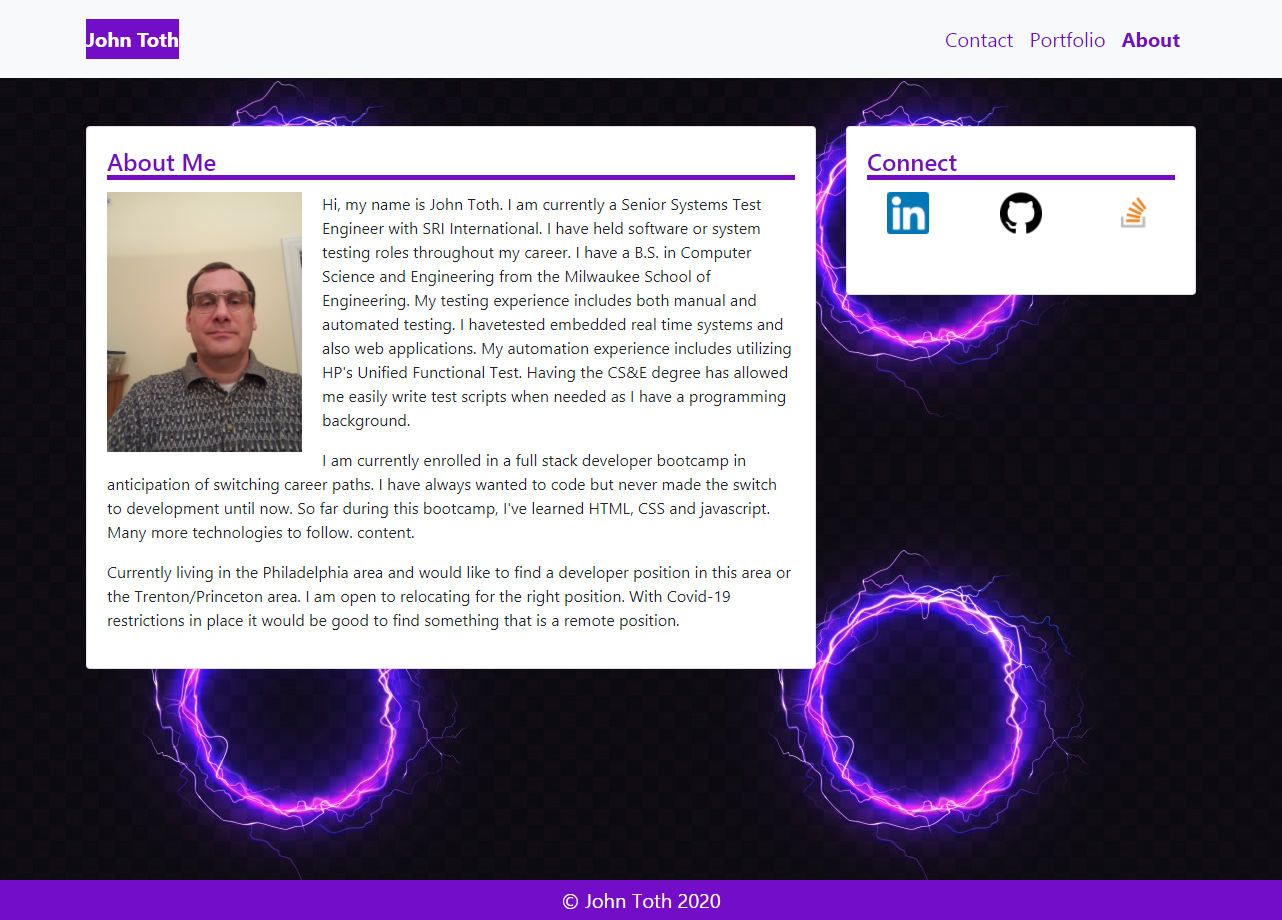
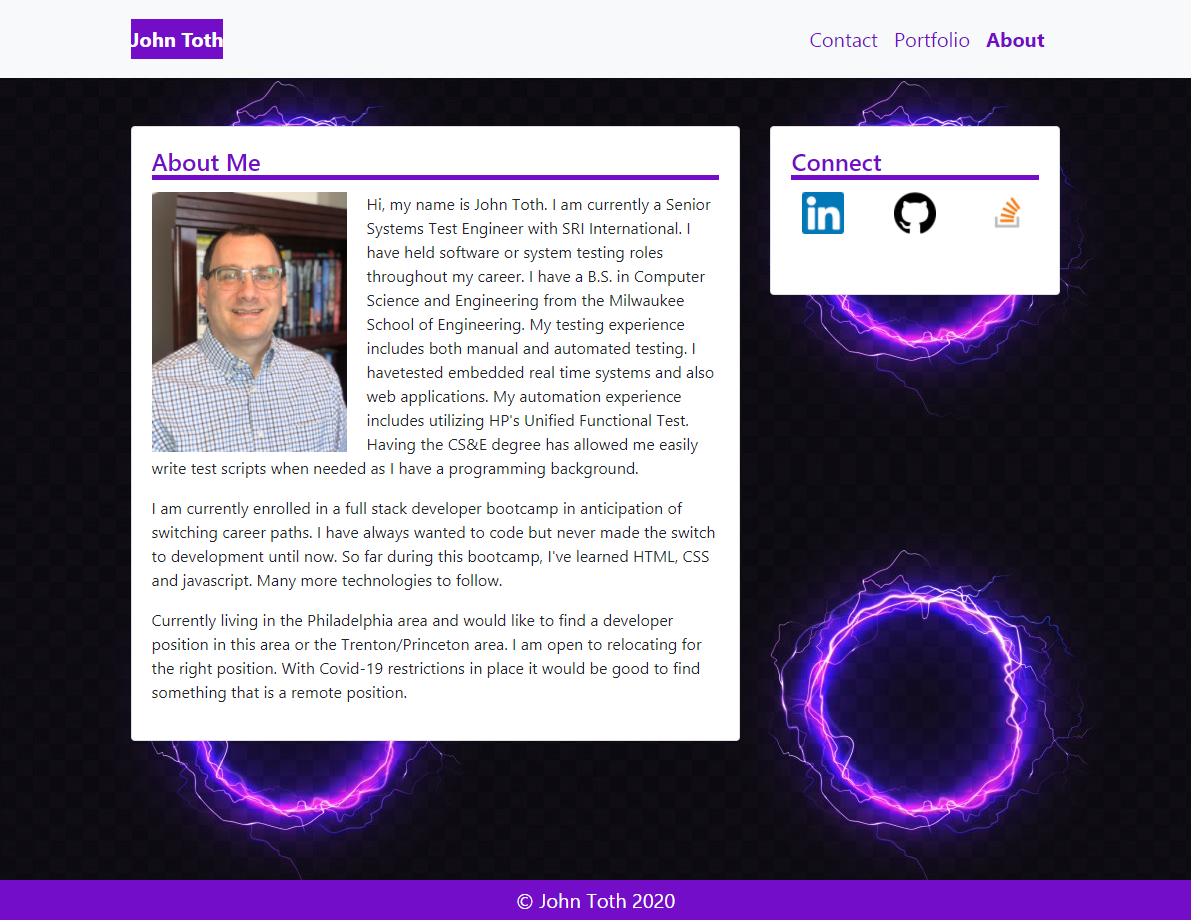
changed picture, fixed submit button styling

diff --git a/index.html b/index.html
@@ -73,7 +73,7 @@
                             <!--Custom styled the About Me text-->
                             <h2 class="card-title captionSize aboutTextColor myBottomBorder">About Me</h2>
                             <!--Made image responsive with corret class and applied custom styling to image-->
-                            <img src="./assets/images/pic2.jpg" class="image-responsive johnPic float-left padding"
+                            <img src="./assets/images/pic3.jpg" class="image-responsive johnPic float-left padding"
                                 alt="Portrait picture">
                             <!--Bio text placed in body of card object-->
                             <p>Hi, my name is John Toth.  I am currently a Senior Systems Test Engineer with SRI International. I have held software or system
@@ -84,7 +84,7 @@
                             </p>
                             <p>I am currently enrolled in a full stack developer bootcamp in anticipation of switching career paths.   I have always wanted to code but never made
                                 the switch to development until now.   So far during this bootcamp, I've learned HTML, CSS and javascript.   Many more technologies to follow.
-                                content.</p>
+                            </p>
                             <p>Currently living in the Philadelphia area and would like to find a developer position in this area or the Trenton/Princeton area.  I am open to relocating
                                 for the right position.  With Covid-19 restrictions in place it would be good to find something that is a remote position.
                             </p>

diff --git a/contact.html b/contact.html
@@ -106,7 +106,7 @@
                                             <small id="messageHelp" class="form-text text-muted">Message length up to 250 characters.</small>
                                         </section>
                                         <!--Button to submit entries on form-->
-                                        <button type="submit" class="btn mySubmitButton">Submit</button>
+                                        <button type="submit" class="btn myButton">Submit</button>
                                     </form>
                                 </section>
                             </section>
